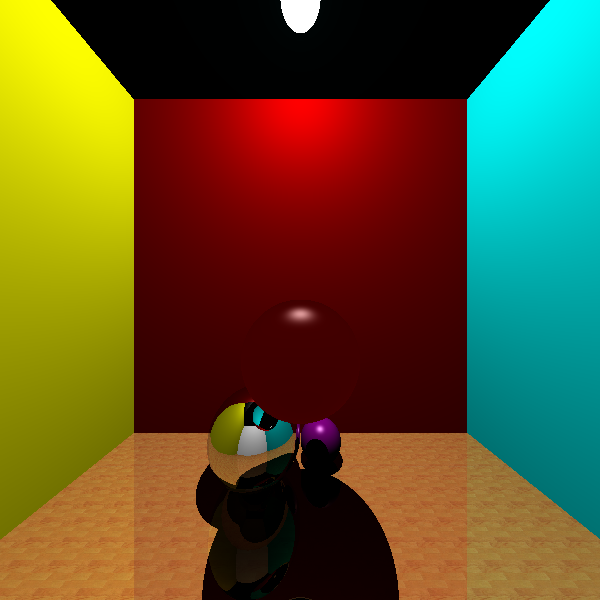
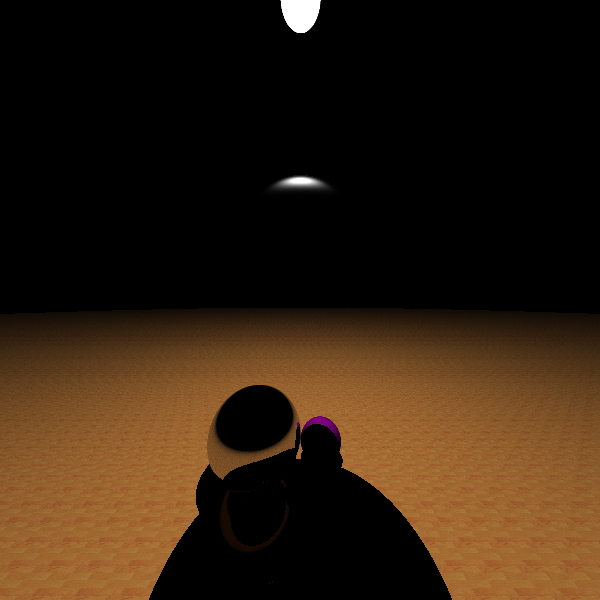
vertial super sampling finished

diff --git a/proj1/proj1/main.cpp b/proj1/proj1/main.cpp
@@ -9,7 +9,7 @@
 
 
 */
-float SIZE = 1;
+float SIZE = 3;
 int main(void){
 	time_t start, stop;
 	start = time(NULL);
@@ -25,9 +25,9 @@ int main(void){
 	ColorTexture* t2 = s.getColorTexture(Color((float)128 / (float)255, (float)0 / (float)255, (float)128 / (float)255));
 	o[0] = s.getSphere(m2, t2, Vector3(100 * SIZE, 550 * SIZE, 50 * SIZE), 50 * SIZE);
 
-	Meterial* m3 = s.getMeterial(0.0f, 1.33f, 0.0f, 0.6f);
-	ColorTexture* t3 = s.getColorTexture(Color((float)255 / (float)255, (float)255 / (float)255, (float)255 / (float)255));
-	o[2] = s.getSphere(m3, t3, Vector3(250 * SIZE, 500 * SIZE, 300 * SIZE), 100 * SIZE);
+	Meterial* m3 = s.getMeterial(0.2f, 1.33f, 0.0f, 1.3f);
+	ColorTexture* t3 = s.getColorTexture(Color((float)0 / (float)255, (float)0 / (float)255, (float)0 / (float)255));
+	o[2] = s.getSphere(m3, t3, Vector3(250 * SIZE, 500 * SIZE, 500 * SIZE), 100 * SIZE);
 
 	Builder* b = new Builder();
 	b->buildCamera(Vector3(600 * SIZE, 500 * SIZE, 400 * SIZE), Vector3(400 * SIZE, 200 * SIZE, 100 * SIZE), Vector3(0, 0,1), Vector3(0, 1, 0),600 * SIZE,600 * SIZE);

diff --git a/proj1/proj1/Raytracer.h b/proj1/proj1/Raytracer.h
@@ -13,14 +13,14 @@ private:
 	int imgHeight;
 	int imgWidth;
 	float MAX_LIGHT_LEN = 1000000;
-	int MAX_DEPTH = 25;
+	int MAX_DEPTH = 10;
 public:
 	RayTracer(Camera* c,Scene* s,int height,int width):camera(c),scene(s),imgHeight(height),imgWidth(width){}
 	cv::Mat getImg() { return result; }
 	void showImg();
 	void writeImg();
 
-	Color trace(Ray* r,int depth,float length,float refract_idx,float& inter_l);
+	Color trace(Ray* r, int depth, float length, float refract_idx, float &inter_l, int &inter_id);
 	void run();
 };
 

diff --git a/proj1/proj1/scene.h b/proj1/proj1/scene.h
@@ -5,10 +5,11 @@
 struct IntersectPoint {
 	Object* obj;
 	float t;
+	int obj_id;
 	bool inside;
 	IntersectPoint(){}
-	IntersectPoint(Object* o,float _t,bool in):obj(o),t(_t),inside(in){}
-	void set(Object* o, float _t) { obj = o; t = _t; }
+	IntersectPoint(Object* o,float _t,bool in,int id):obj(o),t(_t),inside(in),obj_id(id){}
+	void set(Object* o, float _t, bool in, int id) { obj = o; t = _t; inside = in; id = obj_id; }
 };
 
 class Scene {

diff --git a/proj1/proj1/scene.cpp b/proj1/proj1/scene.cpp
@@ -67,10 +67,10 @@ IntersectPoint* Scene::getIntersectObj(Ray &r) {
 		if ( dis > 0 && dis < t ) {
 			t = dis;
 			if (res) {
-				res->set(objs[i], t);
+				res->set(objs[i], t, inside,i);
 			}
 			else {
-				res = new IntersectPoint(objs[i], t,inside);
+				res = new IntersectPoint(objs[i], t,inside,i);
 			}
 		}
 	}

diff --git a/proj1/proj1/camera.h b/proj1/proj1/camera.h
@@ -16,8 +16,8 @@ public:
 		/*dx.normalize();
 		dy.normalize();*/
 	}
-	Ray* getCameraRay(int x, int y) {
-		Vector3 p = planeOrigin + dx*float(x) + dy*float(y);
+	Ray* getCameraRay(float x, float y) {
+		Vector3 p = planeOrigin + dx * x + dy * y;
 		Vector3 dir = p - eye;
 		return new Ray(eye, dir);
 	}

diff --git a/proj1/proj1/vector3.h b/proj1/proj1/vector3.h
@@ -74,6 +74,9 @@ class Vector3{
 		friend Vector3 operator / (Vector3 v1,Vector3 v2){
 			return Vector3::sub(v1,v2);
 		}	
+		friend Vector3 operator / (Vector3 v1, float f) {
+			return Vector3(v1.x /= f,v1.y /= f,v1.z /= f);
+		}
 
 
 };
